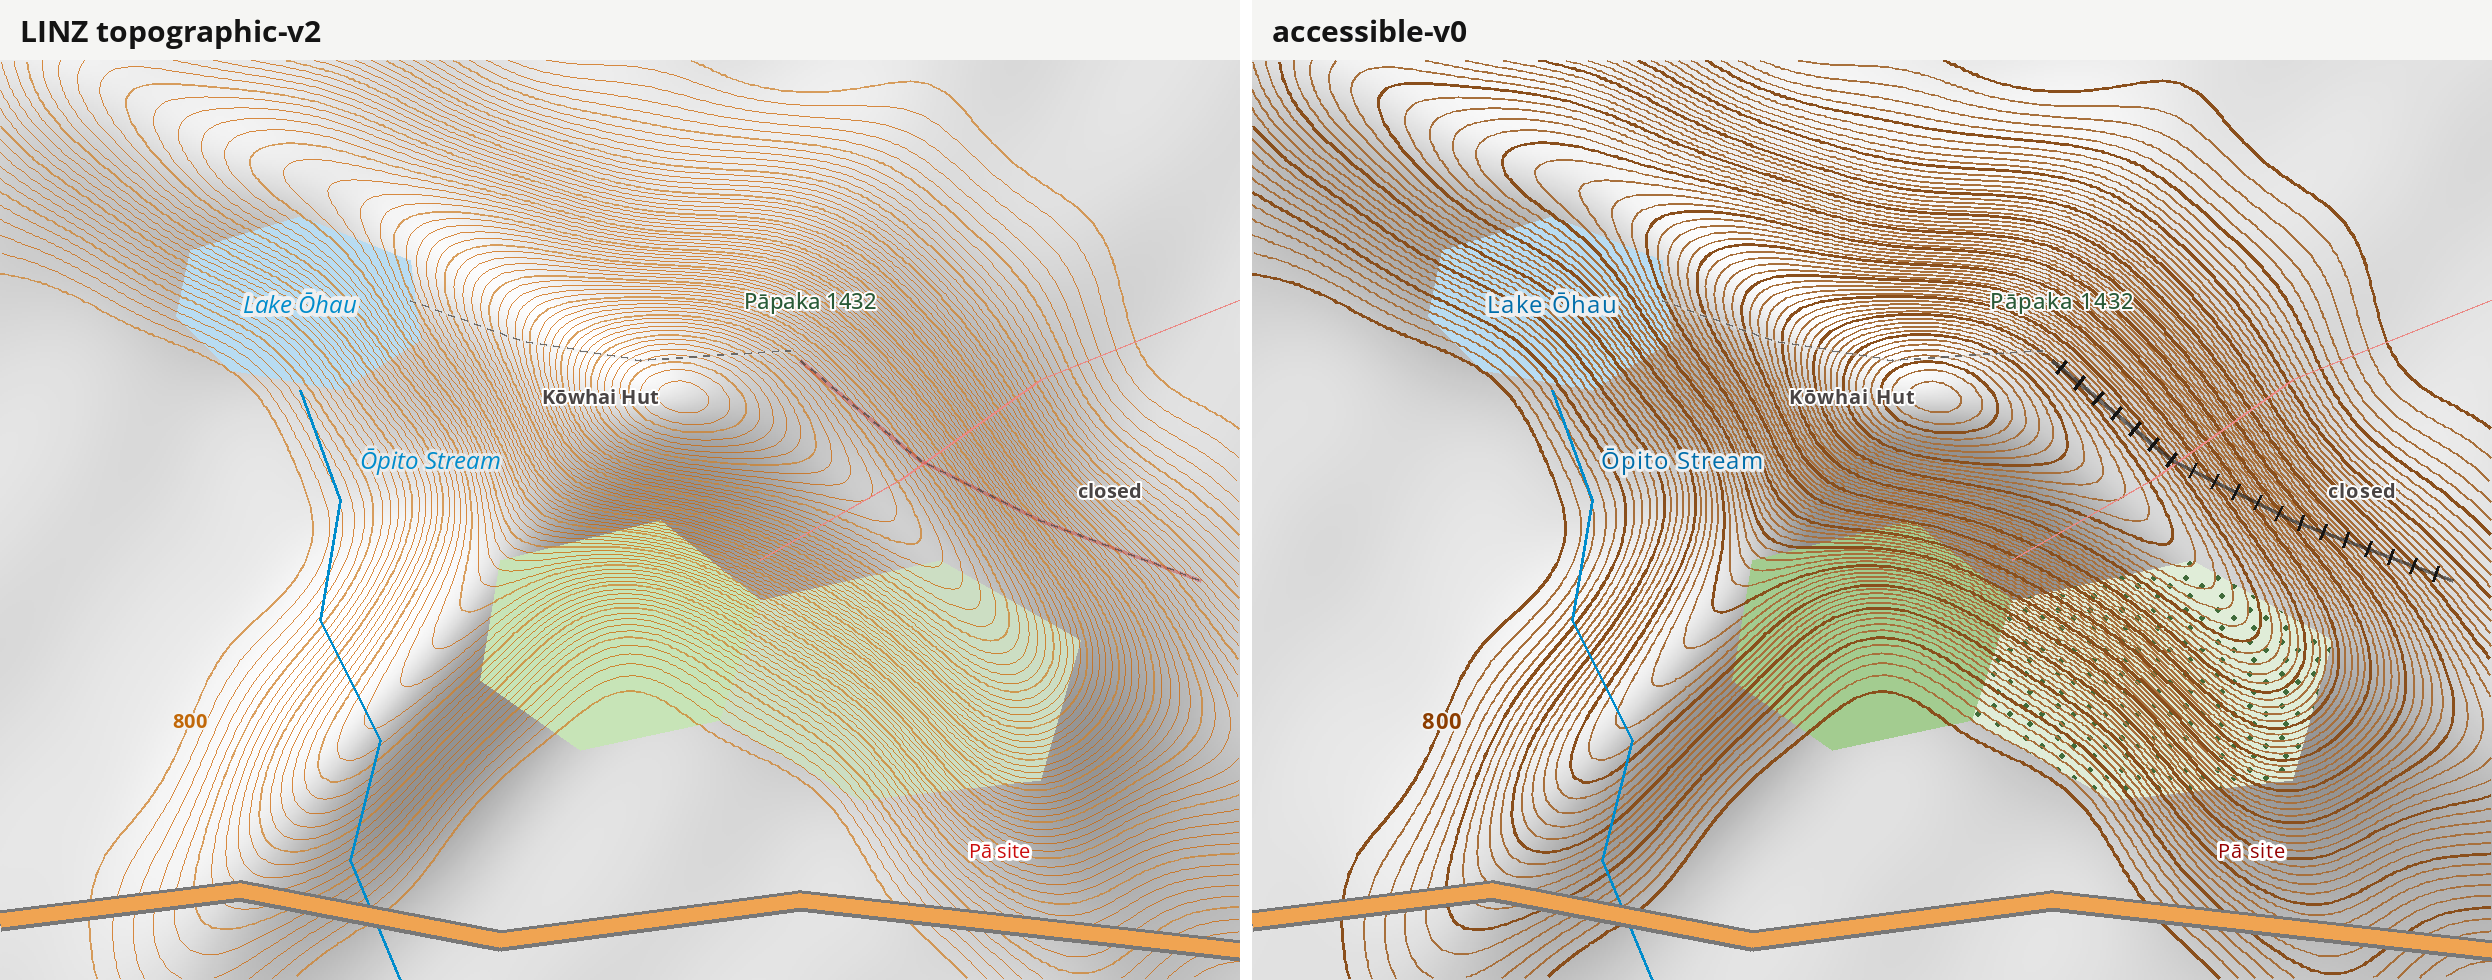
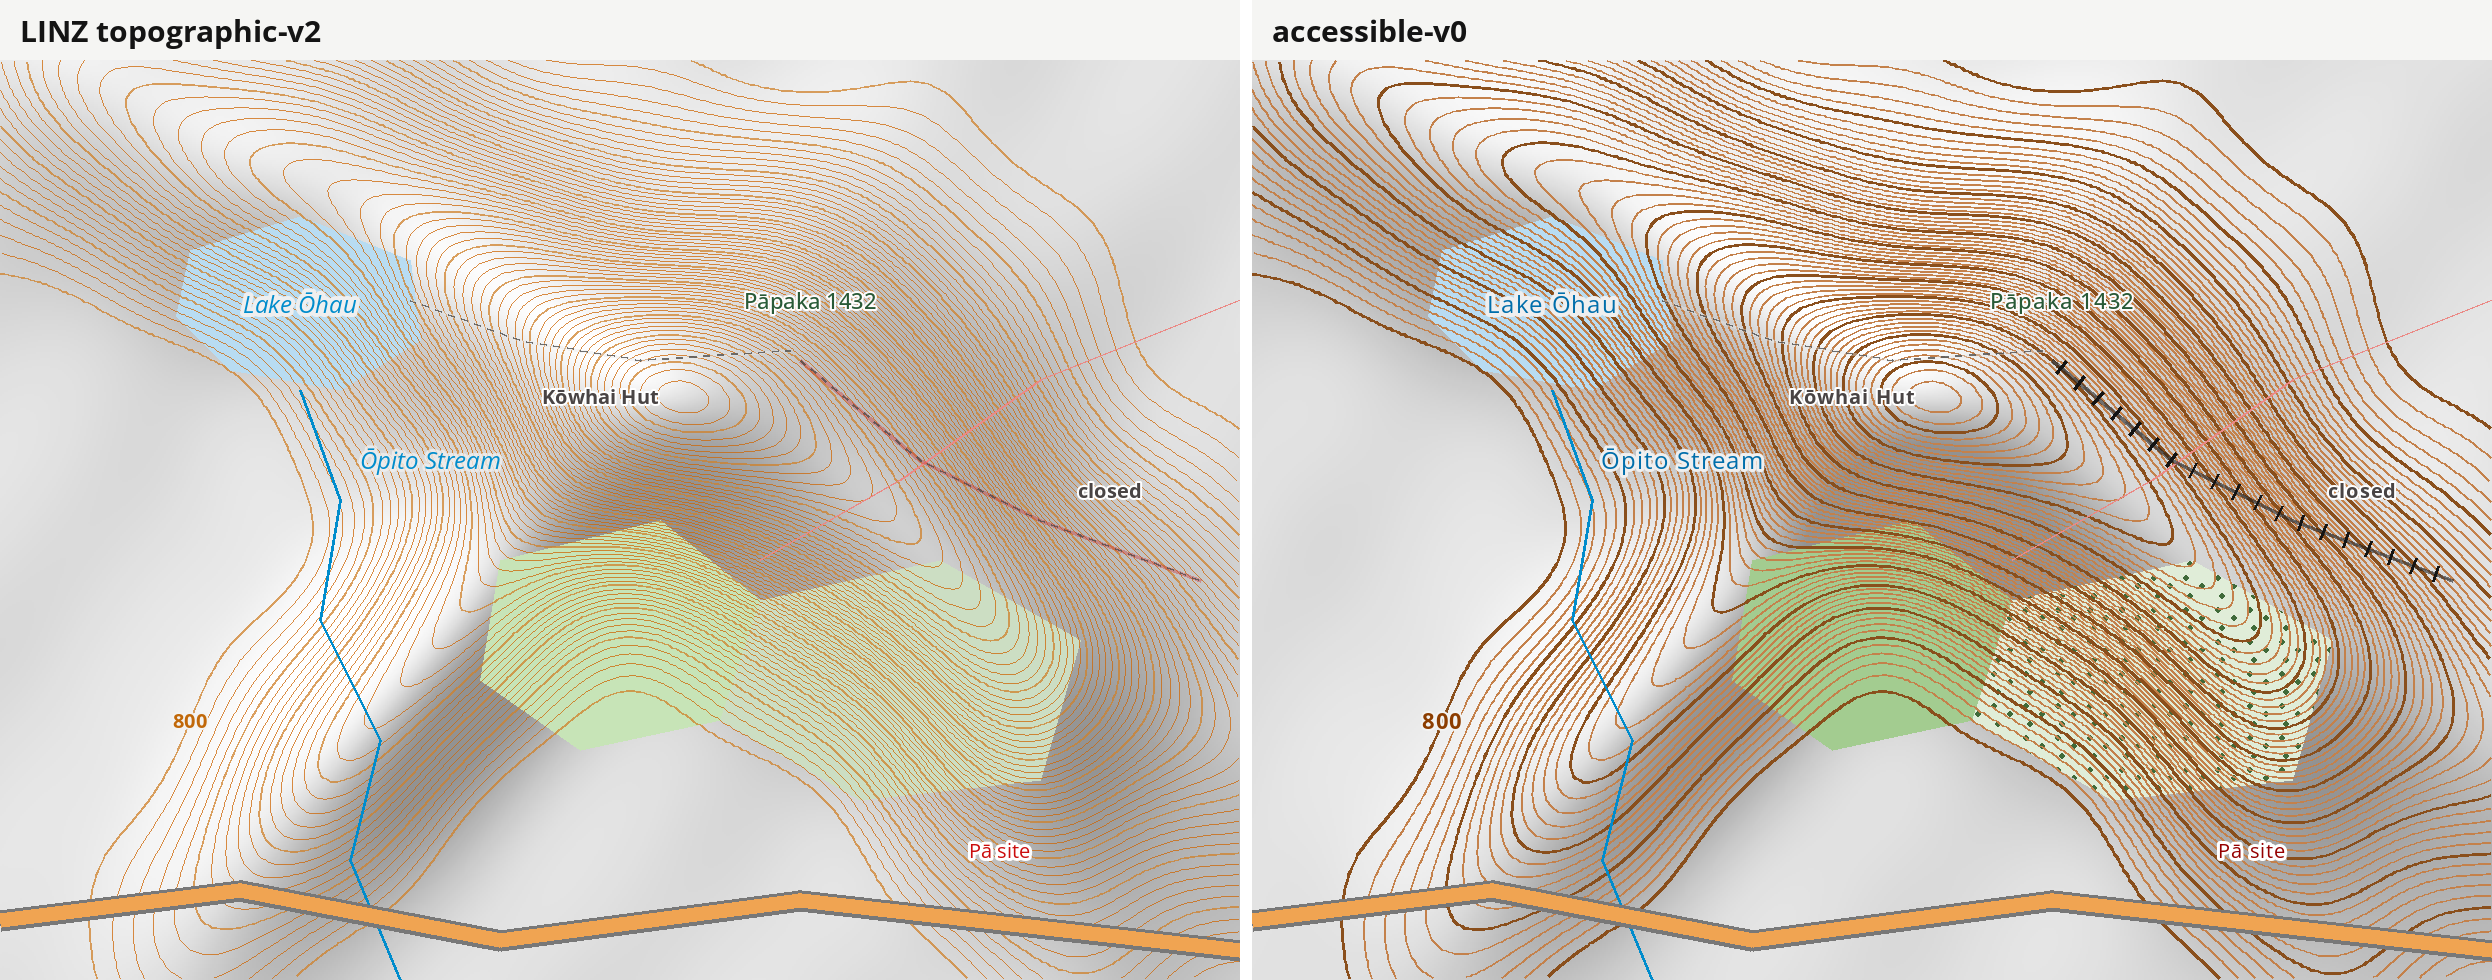
revise R-04 from real-map density; add R-17 print fixes; real-scenario screenshot tooling (log 0020)

diff --git a/preview/index.html b/preview/index.html
@@ -57,7 +57,11 @@
 <script>
 const LINZ = "https://basemaps.linz.govt.nz";
 const keyEl = document.getElementById("key");
-try { keyEl.value = localStorage.getItem("linzKey") || ""; } catch (e) {}
+const qs = new URLSearchParams(location.search);  // ?key=&variant=&sim= (used by tools/screenshots)
+try { keyEl.value = qs.get("key") || localStorage.getItem("linzKey") || ""; } catch (e) {}
+if (qs.get("variant")) document.getElementById("variant").value = qs.get("variant");
+if (qs.get("sim")) document.getElementById("sim").value = qs.get("sim");
+window.__mapsIdle = 0;
 
 // LINZ styles use host-relative URLs (/v1/...) and a {tileMatrix} placeholder.
 function absolutise(style, key) {
@@ -105,6 +109,11 @@ async function load() {
     container: id, style: absolutise(st, key), transformRequest: transformRequest(key),
     hash: id === "left", ...view,
   }));
+  // The left map reads the URL hash; align the right map to it before counting idles.
+  maps[0].once("load", () => {
+    maps[1].jumpTo({ center: maps[0].getCenter(), zoom: maps[0].getZoom() });
+    maps.forEach(m => m.once("idle", () => { window.__mapsIdle += 1; }));
+  });
   let syncing = false;
   maps.forEach((m, i) => m.on("move", () => {
     if (syncing) return; syncing = true;

diff --git a/tools/build_style.py b/tools/build_style.py
@@ -29,9 +29,9 @@ WHITE = (255, 255, 255)
 P = {
     "hillshade_direction": 337.5,                         # R-03 (F-14, F-15)
     "contour_index": "#8A4F1C",                           # R-04
-    "contour_intermediate": "#A8703C",                    # R-04
+    "contour_intermediate": "#C4814B",                    # R-04 rev. (log 0020): lightest same-hue brown ≥3.2:1
     "contour_index_width": {"stops": [[10, 0.8], [12, 1.2], [15, 1.8]]},
-    "contour_intermediate_width": {"stops": [[12, 0.8], [16, 1.2]]},
+    "contour_intermediate_width": {"stops": [[12, 0.6], [16, 0.9]]},  # thinner: dense slopes read as texture
     "scrub": "rgba(163, 204, 144, 1)",                    # R-10 (#A3CC90)
     "scattered_scrub": "rgba(224, 237, 216, 1)",          # R-10 (#E0EDD8)
     "closed_track_shadow": "rgba(26, 26, 26, 0.55)",      # R-11

diff --git a/docs/recommendations.md b/docs/recommendations.md
@@ -52,7 +52,10 @@ multidirectional/sky layer; evaluated on both Alpine and lowland sheets.
 
 ### R-04 — Darker, solid, wider contours with a clear index/intermediate hierarchy
 **Rests on:** F-18, F-20, W3, W5, W6, palette v0 · **Best evidence:** C (WCAG) + D (audit)
-**Starting values:** index `#8A4F1C`, intermediate `#A8703C`, no opacity.
+**Starting values:** index `#8A4F1C`, intermediate `#C4814B` (revised in log
+0020 from `#A8703C`: real Topo50 slopes show 20 m intermediates are dense
+enough that they must stay recessive — the lightest same-hue brown meeting
+3.2:1, thinner lines; index contours carry relief under red light), no opacity.
 Web widths: intermediate ≥1 px, index ≥1.5 px at z13+ (provisional).
 Print widths: set by rendering tests on steep sheets (OQ-09).
 **Also:** draw `definition = indefinite` contours dashed, so reduced
@@ -117,6 +120,9 @@ Water keeps its blue shoreline line.
 **Why:** v0 showed colour alone can't separate pale fills in greyscale.
 
 ### R-11 — Closed tracks, hazards and historic sites: meaning in shape, not red
+**Print evidence (log 0019, P2):** in printed Topo50, a closed track differs
+from a foot track *only* by gap length (dash 24/gap 12 vs 23/24). This
+applies to print as much as web.
 **Rests on:** F-21, W7, palette v0 · **Best evidence:** D (mechanism certain)
 **Change:** closed tracks get a dark casing with cross-bars; historic sites
 get a distinct glyph with dark-ink labels.
@@ -129,6 +135,20 @@ we don't have; leave a casing/colour channel unused so it can be added
 without redesign.
 
 ---
+
+### R-17 — Print-specific fixes found in the Topo50 legend — **new, provisional**
+**Rests on:** P1–P9 (`current-state/topo50-print.md`), F-21, F-23 · **Best evidence:** measured (D) + C
+- Give **hot and cold springs different glyphs**, not just different inks
+  (P3: 1.13:1 in greyscale). Topo50 already does this well for hot spring vs
+  fumarole (× vs ⊗) — extend the same idea.
+- Separate **native forest from scrub** by a larger lightness step or a
+  texture (P5: ΔE 4.8, 1.1:1 greyscale). This changes route choice.
+- Keep **scattered scrub as a pattern** (P6) — print got this right; the web
+  style should match (R-10 does).
+- Apply R-05 to **contour labels and spot heights**, which are italic in
+  print (P8).
+- Don't use the red-orange ink alone for anything that must be read under a
+  red headtorch (P7).
 
 ## Products and process
 

diff --git a/docs/research-log/0020-revisions-and-real-scenarios.md b/docs/research-log/0020-revisions-and-real-scenarios.md
@@ -1,0 +1,37 @@
+# 0020 — Revisions from real-map evidence, and real-scenario tooling
+
+**Date:** 2026-11-01
+
+## Question
+What should change now that we've seen real Topo50 output, and how do we
+test the new style on realistic scenes rather than synthetic ones?
+
+## Revisions
+- **R-04 intermediate contours** `#A8703C` → `#C4814B`, width
+  0.8–1.2 → 0.6–0.9 px. Method: lighten the index contour's CIELAB L\* until
+  the colour is just above 3.2:1 on white. Rationale: on the real Kawarau
+  render, 20 m intermediates on steep slopes are dense even in pale orange;
+  darkening them all (v0) would turn slopes into dark masses (OQ-09).
+  Trade-off accepted and recorded: intermediates drop to 1.75:1 under red
+  light; index contours (3.45:1) carry relief there. Gate floors updated.
+- **R-11** now cites print evidence (P2).
+- **R-17 (new)**: print-specific fixes from the legend audit.
+
+## Real-scenario tooling
+- `tools/screenshots/scenarios.json`: seven real NZ locations, each chosen
+  to stress specific findings (dense alpine relief, geothermal springs,
+  flat plains, forest/scrub boundaries, macron-heavy towns, and the same
+  Kawarau area as LINZ's real render, for a direct print-vs-web check).
+- `tools/screenshots/compare.mjs`: Playwright script that drives
+  `preview/` with a LINZ API key and captures LINZ vs accessible side by
+  side under all six conditions.
+- `preview/index.html` now accepts `?key=&variant=&sim=`, aligns the right
+  map to the URL location, and exposes an idle counter for the script.
+
+## Why not done here
+The build sandbox can't reach LINZ's tile servers or topomap.co.nz. The
+script is syntax-checked but **not yet run**.
+
+## Next
+Run the script; commit the useful screenshots under `docs/visuals/real/`
+with a log entry; re-tune R-04 and R-03 against them.

diff --git a/docs/visuals/README.md b/docs/visuals/README.md
@@ -4,7 +4,9 @@ Generated by `tools/render_comparison.py` and `tools/render_fonts.py`
 (reproducible: see log 0017). Fonts from google/fonts and
 googlefonts/atkinson-hyperlegible-next.
 
-> **Read these with the caveats.** The terrain and features are a
+> `01`–`04` use a **synthetic** scene; `07` is a real LINZ render; `real/` will be live tiles.
+>
+> **Caveats for 01–04.** The terrain and features are a
 > **synthetic test scene**, not LINZ tiles; the renderer is Pillow, not
 > MapLibre (line joins, antialiasing and label placement differ). What *is*
 > real: every colour, width, opacity, font, size, halo and letter-spacing is
@@ -19,6 +21,8 @@ googlefonts/atkinson-hyperlegible-next.
 | `03-relief-lighting.png` | Hillshade only: 315° (today), 337.5° (R-03), multidirectional, and a 135° control |
 | `04-labels-closeup.png` | Labels at 2× pixels: italics and contrast |
 | `05-macrons-and-confusables.png` | Open Sans vs Atkinson Next vs patched build (rendered **with** HarfBuzz shaping) |
+| `07-real-topo50-simulations.png` | **Real** Topo50 render (Kawarau River, from LINZ `topographic-system`) under all six conditions |
+| `real/` (to be generated) | Live-tile comparisons at 7 real locations — `tools/screenshots/compare.mjs` |
 | `06-shaping-vs-no-shaping.png` | Why Atkinson's missing Ō/ō matters on the web but not in shaped renderers |
 
 ## What the images show (observations, grade D)

diff --git a/docs/styles/accessible-v0-changes.md b/docs/styles/accessible-v0-changes.md
@@ -11,9 +11,9 @@ Total changes: 189.
 
 - `Contours-Index` — colour → #8A4F1C (opaque), width ↑
 - `Contours-Index-Halo` — hidden — darker index line no longer needs a 10% offset shadow
-- `Contours-All` — colour → #A8703C (opaque)
-- `Contours-Designated` — colour → #A8703C (opaque)
-- `Contours-Natural` — colour → #A8703C (opaque)
+- `Contours-All` — colour → #C4814B (opaque)
+- `Contours-Designated` — colour → #C4814B (opaque)
+- `Contours-Natural` — colour → #C4814B (opaque)
 
 ## R-05 (39)
 

diff --git a/docs/styles/accessible-v0-multidir-changes.md b/docs/styles/accessible-v0-multidir-changes.md
@@ -11,9 +11,9 @@ Total changes: 189.
 
 - `Contours-Index` — colour → #8A4F1C (opaque), width ↑
 - `Contours-Index-Halo` — hidden — darker index line no longer needs a 10% offset shadow
-- `Contours-All` — colour → #A8703C (opaque)
-- `Contours-Designated` — colour → #A8703C (opaque)
-- `Contours-Natural` — colour → #A8703C (opaque)
+- `Contours-All` — colour → #C4814B (opaque)
+- `Contours-Designated` — colour → #C4814B (opaque)
+- `Contours-Natural` — colour → #C4814B (opaque)
 
 ## R-05 (39)
 

diff --git a/docs/research-log/README.md b/docs/research-log/README.md
@@ -20,3 +20,5 @@ One entry per research commit, oldest first. `git log` mirrors this list.
 - [0016 — Status and next steps](0016-next-steps.md)
 - [0017 — Visual comparisons](0017-visual-comparisons.md)
 - [0018 — Atkinson licence, and a proof-of-concept Ō/ō patch](0018-atkinson-licence-and-patch.md)
+- [0019 — Real Topo50 print: legend audit and real-map simulations](0019-real-topo50-print.md)
+- [0020 — Revisions from real-map evidence, and real-scenario tooling](0020-revisions-and-real-scenarios.md)
